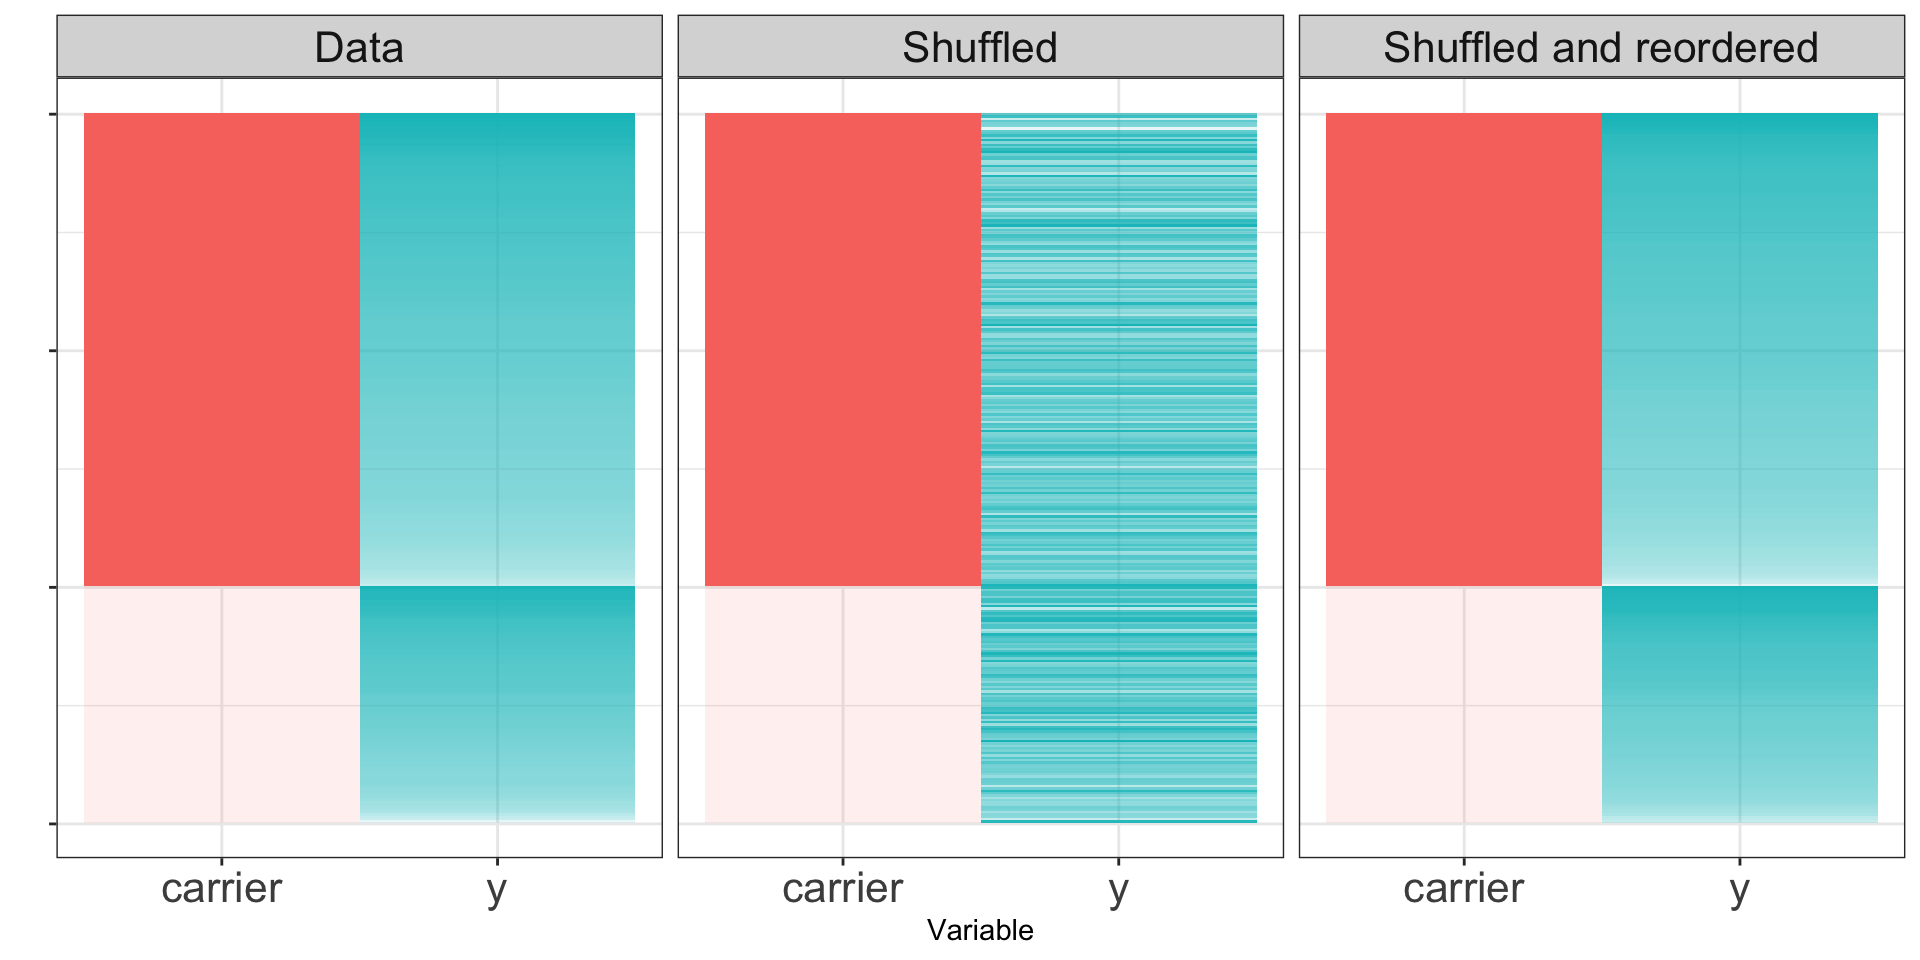
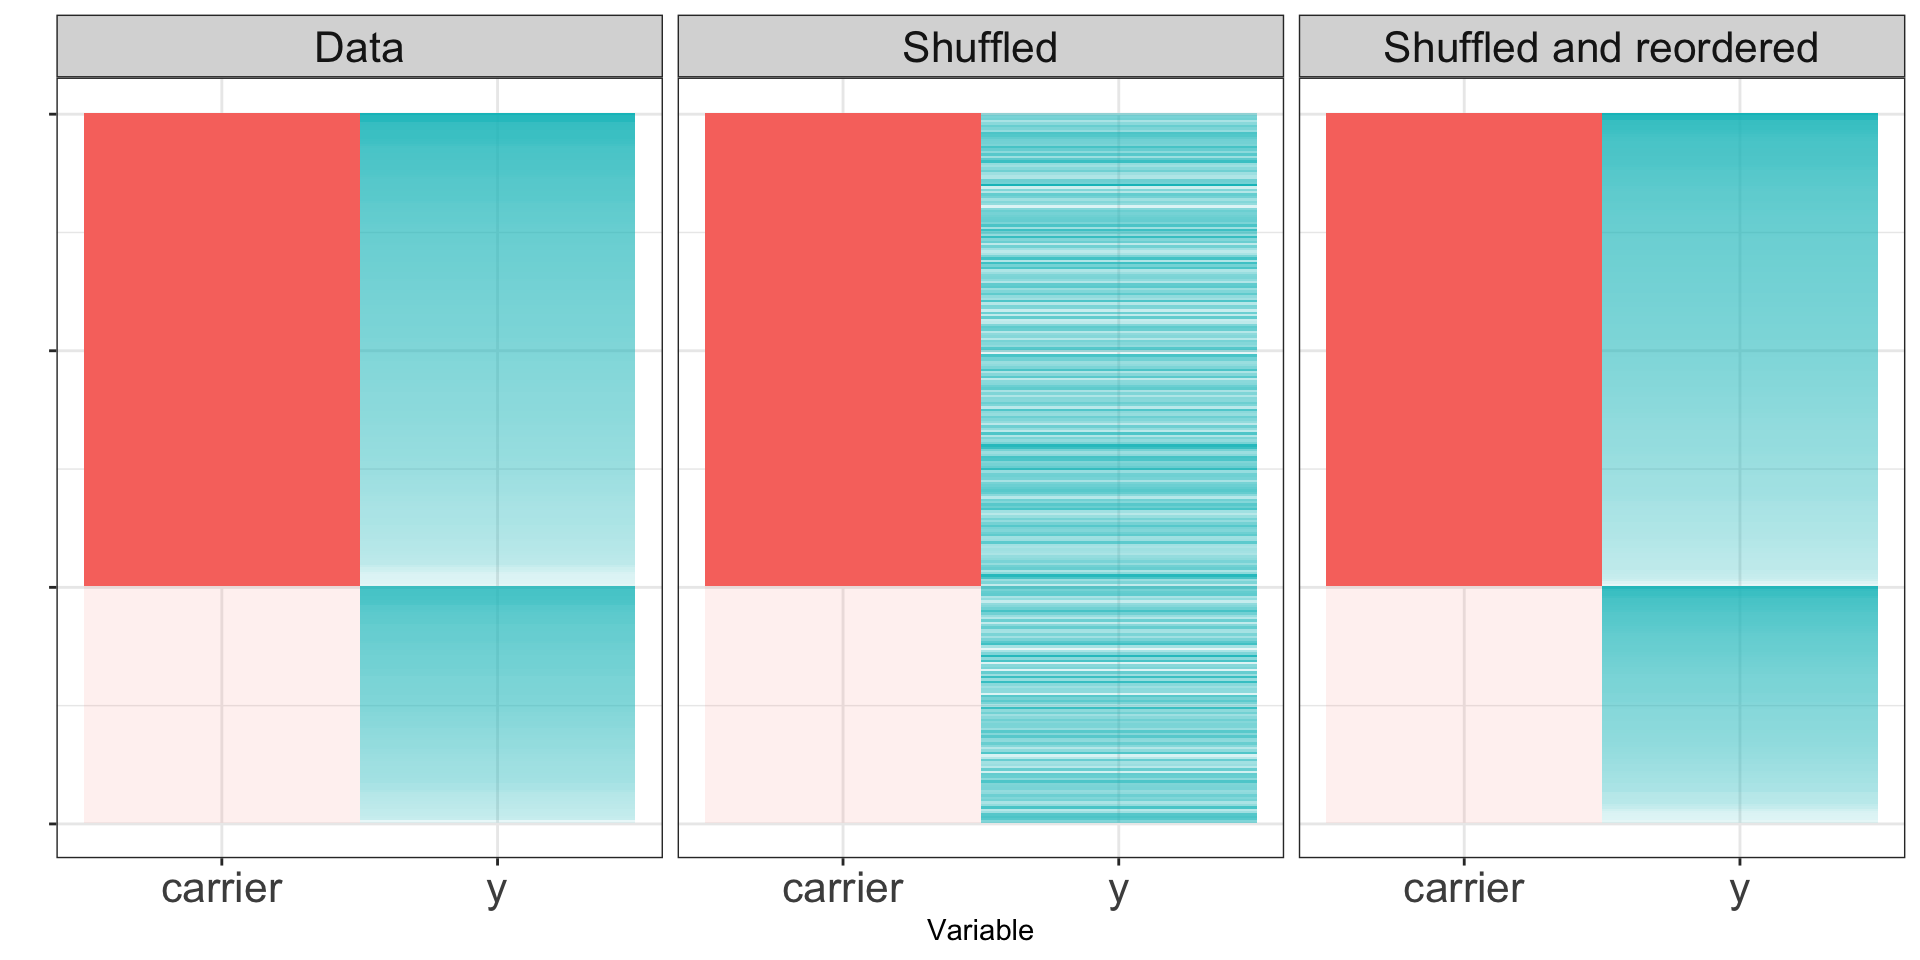
adds week 13 slides

diff --git a/docs/slides/23_hypothesis-testing-II.html b/docs/slides/23_hypothesis-testing-II.html
@@ -438,13 +438,16 @@ Peter Gao
 <li>The <span class="math inline">\(X\)</span> and <span class="math inline">\(Y\)</span> samples are independent of one another.</li>
 <li>The sample sizes are adequately large (usually appropriate if <span class="math inline">\(m&gt;40\)</span> and <span class="math inline">\(n&gt;40\)</span>.</li>
 </ol>
+</section>
+<section id="example-two-sample-z-test-1" class="slide level2">
+<h2>Example: Two-sample <span class="math inline">\(z\)</span>-test</h2>
 <p><strong>Hypotheses</strong>:</p>
 <ul>
 <li>H_0: <span class="math inline">\(\mu_1=\mu_2\)</span></li>
 <li>H_a: <span class="math inline">\(\mu_1\not=\mu_2\)</span></li>
 </ul>
 </section>
-<section id="example-two-sample-z-test-1" class="slide level2">
+<section id="example-two-sample-z-test-2" class="slide level2">
 <h2>Example: Two-sample <span class="math inline">\(z\)</span>-test</h2>
 <p>Under these assumptions, <span class="math inline">\(\overline{X}-\overline{Y}\)</span> is approximately normal and the test statistic <span class="math display">\[Z=\frac{\overline{X}-\overline{Y}-(\mu_1-\mu_2)}{\sqrt{\frac{S_1^2}{m}+\frac{S_2^2}{n}}}\]</span> has approximately a standard normal distribution when <span class="math inline">\(H_0\)</span> is true.</p>
 </section>
@@ -499,11 +502,11 @@ mean in group 1 mean in group 2
 <section id="null-hypothesis-true" class="slide level2">
 <h2>Null hypothesis true</h2>
 
-<img data-src="23_hypothesis-testing-II_files/figure-html/unnamed-chunk-3-1.png" width="672" class="r-stretch"></section>
+<img data-src="23_hypothesis-testing-II_files/figure-revealjs/unnamed-chunk-3-1.png" width="960" class="r-stretch"></section>
 <section id="null-hypothesis-false" class="slide level2">
 <h2>Null hypothesis false</h2>
 
-<img data-src="23_hypothesis-testing-II_files/figure-html/unnamed-chunk-4-1.png" width="672" class="r-stretch"></section>
+<img data-src="23_hypothesis-testing-II_files/figure-revealjs/unnamed-chunk-4-1.png" width="960" class="r-stretch"></section>
 <section id="permutation-tests-3" class="slide level2">
 <h2>Permutation tests</h2>
 <ol type="1">
@@ -522,13 +525,13 @@ mean in group 1 mean in group 2
     Two Sample t-test
 
 data:  null_y[carrier == 0] and null_y[carrier == 1]
-t = -0.066258, df = 298, p-value = 0.9472
+t = -0.9345, df = 298, p-value = 0.3508
 alternative hypothesis: true difference in means is not equal to 0
 95 percent confidence interval:
- -0.2412448  0.2255293
+ -0.3441115  0.1225249
 sample estimates:
-  mean of x   mean of y 
--0.03895142 -0.03109367 </code></pre>
+   mean of x    mean of y 
+-0.001780347  0.109012939 </code></pre>
 </div>
 </div>
 </section>
@@ -542,13 +545,13 @@ sample estimates:
     Two Sample t-test
 
 data:  alt_y[carrier == 0] and alt_y[carrier == 1]
-t = -40.783, df = 298, p-value &lt; 2.2e-16
+t = -40.932, df = 298, p-value &lt; 2.2e-16
 alternative hypothesis: true difference in means is not equal to 0
 95 percent confidence interval:
- -5.168072 -4.692271
+ -5.033499 -4.571692
 sample estimates:
-  mean of x   mean of y 
--0.01644989  4.91372155 </code></pre>
+mean of x mean of y 
+0.1987507 5.0013462 </code></pre>
 </div>
 </div>
 </section>
@@ -574,10 +577,10 @@ sample estimates:
 
 <div class="sourceCode cell-code" id="cb10"><pre class="sourceCode numberSource r number-lines code-with-copy"><code class="sourceCode r"><span id="cb10-1"><a href="#cb10-1"></a><span class="fu">mean</span>(<span class="fu">abs</span>(test_stats_null) <span class="sc">&gt;</span> <span class="fu">abs</span>(null_diff)) <span class="co"># P-value</span></span></code><button title="Copy to Clipboard" class="code-copy-button"><i class="bi"></i></button></pre></div>
 <div class="cell-output cell-output-stdout">
-<pre><code>[1] 0.931</code></pre>
+<pre><code>[1] 0.353</code></pre>
 </div>
 </div>
-<img data-src="23_hypothesis-testing-II_files/figure-html/unnamed-chunk-8-1.png" width="672" class="r-stretch"></section>
+<img data-src="23_hypothesis-testing-II_files/figure-revealjs/unnamed-chunk-8-1.png" width="960" class="r-stretch"></section>
 <section id="permutation-tests-8" class="slide level2">
 <h2>Permutation tests</h2>
 <p>Compare with the case where the null hypothesis is false.</p>
@@ -593,7 +596,7 @@ sample estimates:
 <pre><code>[1] 0</code></pre>
 </div>
 </div>
-<img data-src="23_hypothesis-testing-II_files/figure-html/unnamed-chunk-9-1.png" width="672" class="r-stretch"></section>
+<img data-src="23_hypothesis-testing-II_files/figure-revealjs/unnamed-chunk-9-1.png" width="960" class="r-stretch"></section>
 <section id="power-analysis" class="slide level2">
 <h2>Power analysis</h2>
 <p>Recall that the power of a hypothesis test is the probability of rejecting the null hypothesis when the null hypothesis is false.</p>
@@ -644,10 +647,10 @@ P\left(|\overline{X}_n| &gt; \frac{z_{\alpha/2}}{\sqrt{n}}\right)&amp;=P\left(\o
 <section id="one-sample-z-test-3" class="slide level2">
 <h2>One sample <span class="math inline">\(z\)</span>-test</h2>
 
-<img data-src="23_hypothesis-testing-II_files/figure-html/unnamed-chunk-11-1.png" width="672" class="r-stretch"></section>
+<img data-src="23_hypothesis-testing-II_files/figure-revealjs/unnamed-chunk-11-1.png" width="960" class="r-stretch"></section>
 <section id="using-simulations-to-estimate-power" class="slide level2">
 <h2>Using simulations to estimate power</h2>
-<div class="cell" data-hash="23_hypothesis-testing-II_cache/html/power.sim_683aa31a84287c3ce999e5df73ae005f">
+<div class="cell" data-hash="23_hypothesis-testing-II_cache/revealjs/power.sim_a981c6598dee417e5db45c067ecc14fd">
 <div class="sourceCode cell-code" id="cb16"><pre class="sourceCode numberSource r number-lines code-with-copy"><code class="sourceCode r"><span id="cb16-1"><a href="#cb16-1"></a>simulate_test <span class="ot">&lt;-</span> <span class="cf">function</span>(mu_a, alpha, n) {</span>
 <span id="cb16-2"><a href="#cb16-2"></a>  Xbar <span class="ot">&lt;-</span> <span class="fu">mean</span>(<span class="fu">rnorm</span>(n, <span class="at">mean =</span> mu_a, <span class="at">sd =</span> <span class="dv">1</span>))</span>
 <span id="cb16-3"><a href="#cb16-3"></a>  Z_score <span class="ot">&lt;-</span> Xbar <span class="sc">*</span> <span class="fu">sqrt</span>(n)</span>
@@ -679,7 +682,7 @@ P\left(|\overline{X}_n| &gt; \frac{z_{\alpha/2}}{\sqrt{n}}\right)&amp;=P\left(\o
 <section id="using-simulations-to-estimate-power-1" class="slide level2">
 <h2>Using simulations to estimate power</h2>
 
-<img data-src="23_hypothesis-testing-II_files/figure-html/power.sim.eval-1.png" width="672" class="r-stretch"></section>
+<img data-src="23_hypothesis-testing-II_files/figure-revealjs/power.sim.eval-1.png" width="960" class="r-stretch"></section>
 <section id="p-hacking-simulations" class="slide level2">
 <h2>P-hacking simulations</h2>
 <p><strong>P-hacking</strong> refers to the practice of repeatedly performing hypothesis tests (and potentially manipulating the data) until a statistically significant P-values is obtained. Usually, only this final result is published, without mentioning all of the manipulations that came before.</p>
@@ -687,17 +690,25 @@ P\left(|\overline{X}_n| &gt; \frac{z_{\alpha/2}}{\sqrt{n}}\right)&amp;=P\left(\o
 <section id="p-hacking-simulations-1" class="slide level2">
 <h2>P-hacking simulations</h2>
 <p>Suppose we simulate 25 observations of 8 variables which we know to be uncorrelated.</p>
-<div class="cell" data-hash="23_hypothesis-testing-II_cache/html/phack.sim_264ed5474711686e1c75bddb2fe963ab">
-<div class="sourceCode cell-code" id="cb17"><pre class="sourceCode numberSource r number-lines code-with-copy"><code class="sourceCode r"><span id="cb17-1"><a href="#cb17-1"></a>no_signal_data<span class="ot">&lt;-</span> <span class="fu">matrix</span>(<span class="fu">rnorm</span>(<span class="dv">200</span>), <span class="at">ncol =</span> <span class="dv">8</span>) <span class="co"># 25 x 8 matrix</span></span>
+<div class="cell" data-hash="23_hypothesis-testing-II_cache/revealjs/phack.sim_e08f53c48343cff385c8109db383c682">
+<div class="sourceCode cell-code" id="cb17"><pre class="sourceCode numberSource r number-lines code-with-copy"><code class="sourceCode r"><span id="cb17-1"><a href="#cb17-1"></a>no_signal_data <span class="ot">&lt;-</span> <span class="fu">matrix</span>(<span class="fu">rnorm</span>(<span class="dv">200</span>), <span class="at">ncol =</span> <span class="dv">8</span>) <span class="co"># 25 x 8 matrix</span></span>
 <span id="cb17-2"><a href="#cb17-2"></a><span class="fu">pairs</span>(no_signal_data) <span class="co"># pairwise scatter plots</span></span></code><button title="Copy to Clipboard" class="code-copy-button"><i class="bi"></i></button></pre></div>
 
 </div>
-<img data-src="23_hypothesis-testing-II_files/figure-html/phack.sim-1.png" width="672" class="r-stretch"></section>
+<img data-src="23_hypothesis-testing-II_files/figure-revealjs/phack.sim-1.png" width="960" class="r-stretch"></section>
+<section id="p-hacking-simulations-2" class="slide level2">
+<h2>P-hacking simulations</h2>
+<div class="cell" data-hash="23_hypothesis-testing-II_cache/revealjs/phack.sim.eval_61abaf51a533afd3c2c788587e68fed6">
+<div class="sourceCode cell-code" id="cb18"><pre class="sourceCode numberSource r number-lines code-with-copy"><code class="sourceCode r"><span id="cb18-1"><a href="#cb18-1"></a>no_signal_data <span class="ot">&lt;-</span> <span class="fu">matrix</span>(<span class="fu">rnorm</span>(<span class="dv">200</span>), <span class="at">ncol =</span> <span class="dv">8</span>) <span class="co"># 25 x 8 matrix</span></span>
+<span id="cb18-2"><a href="#cb18-2"></a><span class="fu">pairs</span>(no_signal_data) <span class="co"># pairwise scatter plots</span></span></code><button title="Copy to Clipboard" class="code-copy-button"><i class="bi"></i></button></pre></div>
+
+</div>
+<img data-src="23_hypothesis-testing-II_files/figure-revealjs/phack.sim.eval-1.png" width="960" class="r-stretch"></section>
 <section id="multiple-testing-simulations" class="slide level2">
 <h2>Multiple testing simulations</h2>
 <p>What if we perform a hypothesis test to test whether the correlation is zero between each pair of variables using <code>cor.test()</code>? With only 8 variables, we have 28 potential comparisons, the probability that we will (falsely) reject the null is already:</p>
-<div class="cell" data-hash="23_hypothesis-testing-II_cache/html/comp_5f53d4f0eb91e4b62a7fd01143674665">
-<div class="sourceCode cell-code" id="cb18"><pre class="sourceCode numberSource r number-lines code-with-copy"><code class="sourceCode r"><span id="cb18-1"><a href="#cb18-1"></a><span class="dv">1</span> <span class="sc">-</span> (<span class="fl">0.95</span>) <span class="sc">^</span> <span class="dv">28</span></span></code><button title="Copy to Clipboard" class="code-copy-button"><i class="bi"></i></button></pre></div>
+<div class="cell" data-hash="23_hypothesis-testing-II_cache/revealjs/comp_cfd29a198fa43e90595d54d0f43e24b4">
+<div class="sourceCode cell-code" id="cb19"><pre class="sourceCode numberSource r number-lines code-with-copy"><code class="sourceCode r"><span id="cb19-1"><a href="#cb19-1"></a><span class="dv">1</span> <span class="sc">-</span> (<span class="fl">0.95</span>) <span class="sc">^</span> <span class="dv">28</span></span></code><button title="Copy to Clipboard" class="code-copy-button"><i class="bi"></i></button></pre></div>
 <div class="cell-output cell-output-stdout">
 <pre><code>[1] 0.7621731</code></pre>
 </div>
@@ -705,20 +716,20 @@ P\left(|\overline{X}_n| &gt; \frac{z_{\alpha/2}}{\sqrt{n}}\right)&amp;=P\left(\o
 </section>
 <section id="multiple-testing-simulations-1" class="slide level2">
 <h2>Multiple testing simulations</h2>
-<div class="cell" data-hash="23_hypothesis-testing-II_cache/html/phack.sim.p_24c525ff218cb0e3bd14583290474abc">
-<div class="sourceCode cell-code" id="cb20"><pre class="sourceCode numberSource r number-lines code-with-copy"><code class="sourceCode r"><span id="cb20-1"><a href="#cb20-1"></a><span class="fu">set.seed</span>(<span class="dv">1029</span>)</span>
-<span id="cb20-2"><a href="#cb20-2"></a>no_signal_data<span class="ot">&lt;-</span> <span class="fu">matrix</span>(<span class="fu">rnorm</span>(<span class="dv">200</span>), <span class="at">ncol =</span> <span class="dv">8</span>) <span class="co"># 25 x 8 matrix</span></span>
-<span id="cb20-3"><a href="#cb20-3"></a>pairs_to_compare <span class="ot">&lt;-</span> <span class="fu">combn</span>(<span class="dv">8</span>, <span class="dv">2</span>) <span class="co"># all combinations of 2 numbers from 1-8</span></span>
-<span id="cb20-4"><a href="#cb20-4"></a>p_values <span class="ot">&lt;-</span> <span class="fu">c</span>()</span>
-<span id="cb20-5"><a href="#cb20-5"></a><span class="cf">for</span> (i <span class="cf">in</span> <span class="dv">1</span><span class="sc">:</span><span class="fu">ncol</span>(pairs_to_compare)) {</span>
-<span id="cb20-6"><a href="#cb20-6"></a>  index_1 <span class="ot">&lt;-</span> pairs_to_compare[<span class="dv">1</span>, i]</span>
-<span id="cb20-7"><a href="#cb20-7"></a>  index_2 <span class="ot">&lt;-</span> pairs_to_compare[<span class="dv">2</span>, i]</span>
-<span id="cb20-8"><a href="#cb20-8"></a>  test_res <span class="ot">&lt;-</span> </span>
-<span id="cb20-9"><a href="#cb20-9"></a>    <span class="fu">cor.test</span>(no_signal_data[, index_1],</span>
-<span id="cb20-10"><a href="#cb20-10"></a>             no_signal_data[, index_2])</span>
-<span id="cb20-11"><a href="#cb20-11"></a>  p_values <span class="ot">&lt;-</span> <span class="fu">c</span>(p_values, test_res<span class="sc">$</span>p.value)</span>
-<span id="cb20-12"><a href="#cb20-12"></a>}</span>
-<span id="cb20-13"><a href="#cb20-13"></a><span class="fu">print</span>(<span class="fu">min</span>(p_values))</span></code><button title="Copy to Clipboard" class="code-copy-button"><i class="bi"></i></button></pre></div>
+<div class="cell" data-hash="23_hypothesis-testing-II_cache/revealjs/phack.sim.p_18ed59b73fc0003f4ac6a9e6308437f7">
+<div class="sourceCode cell-code" id="cb21"><pre class="sourceCode numberSource r number-lines code-with-copy"><code class="sourceCode r"><span id="cb21-1"><a href="#cb21-1"></a><span class="fu">set.seed</span>(<span class="dv">1029</span>)</span>
+<span id="cb21-2"><a href="#cb21-2"></a>no_signal_data<span class="ot">&lt;-</span> <span class="fu">matrix</span>(<span class="fu">rnorm</span>(<span class="dv">200</span>), <span class="at">ncol =</span> <span class="dv">8</span>) <span class="co"># 25 x 8 matrix</span></span>
+<span id="cb21-3"><a href="#cb21-3"></a>pairs_to_compare <span class="ot">&lt;-</span> <span class="fu">combn</span>(<span class="dv">8</span>, <span class="dv">2</span>) <span class="co"># all combinations of 2 numbers from 1-8</span></span>
+<span id="cb21-4"><a href="#cb21-4"></a>p_values <span class="ot">&lt;-</span> <span class="fu">c</span>()</span>
+<span id="cb21-5"><a href="#cb21-5"></a><span class="cf">for</span> (i <span class="cf">in</span> <span class="dv">1</span><span class="sc">:</span><span class="fu">ncol</span>(pairs_to_compare)) {</span>
+<span id="cb21-6"><a href="#cb21-6"></a>  index_1 <span class="ot">&lt;-</span> pairs_to_compare[<span class="dv">1</span>, i]</span>
+<span id="cb21-7"><a href="#cb21-7"></a>  index_2 <span class="ot">&lt;-</span> pairs_to_compare[<span class="dv">2</span>, i]</span>
+<span id="cb21-8"><a href="#cb21-8"></a>  test_res <span class="ot">&lt;-</span> </span>
+<span id="cb21-9"><a href="#cb21-9"></a>    <span class="fu">cor.test</span>(no_signal_data[, index_1],</span>
+<span id="cb21-10"><a href="#cb21-10"></a>             no_signal_data[, index_2])</span>
+<span id="cb21-11"><a href="#cb21-11"></a>  p_values <span class="ot">&lt;-</span> <span class="fu">c</span>(p_values, test_res<span class="sc">$</span>p.value)</span>
+<span id="cb21-12"><a href="#cb21-12"></a>}</span>
+<span id="cb21-13"><a href="#cb21-13"></a><span class="fu">print</span>(<span class="fu">min</span>(p_values))</span></code><button title="Copy to Clipboard" class="code-copy-button"><i class="bi"></i></button></pre></div>
 <div class="cell-output cell-output-stdout">
 <pre><code>[1] 0.006656272</code></pre>
 </div>
@@ -944,6 +955,44 @@ P\left(|\overline{X}_n| &gt; \frac{z_{\alpha/2}}{\sqrt{n}}\right)&amp;=P\left(\o
         ]
       });
     </script>
+    
+    <script>
+      // htmlwidgets need to know to resize themselves when slides are shown/hidden.
+      // Fire the "slideenter" event (handled by htmlwidgets.js) when the current
+      // slide changes (different for each slide format).
+      (function () {
+        // dispatch for htmlwidgets
+        function fireSlideEnter() {
+          const event = window.document.createEvent("Event");
+          event.initEvent("slideenter", true, true);
+          window.document.dispatchEvent(event);
+        }
+
+        function fireSlideChanged(previousSlide, currentSlide) {
+          fireSlideEnter();
+
+          // dispatch for shiny
+          if (window.jQuery) {
+            if (previousSlide) {
+              window.jQuery(previousSlide).trigger("hidden");
+            }
+            if (currentSlide) {
+              window.jQuery(currentSlide).trigger("shown");
+            }
+          }
+        }
+
+        // hookup for slidy
+        if (window.w3c_slidy) {
+          window.w3c_slidy.add_observer(function (slide_num) {
+            // slide_num starts at position 1
+            fireSlideChanged(null, w3c_slidy.slides[slide_num - 1]);
+          });
+        }
+
+      })();
+    </script>
+
     <script id="quarto-html-after-body" type="application/javascript">
     window.document.addEventListener("DOMContentLoaded", function (event) {
       const toggleBodyColorMode = (bsSheetEl) => {
